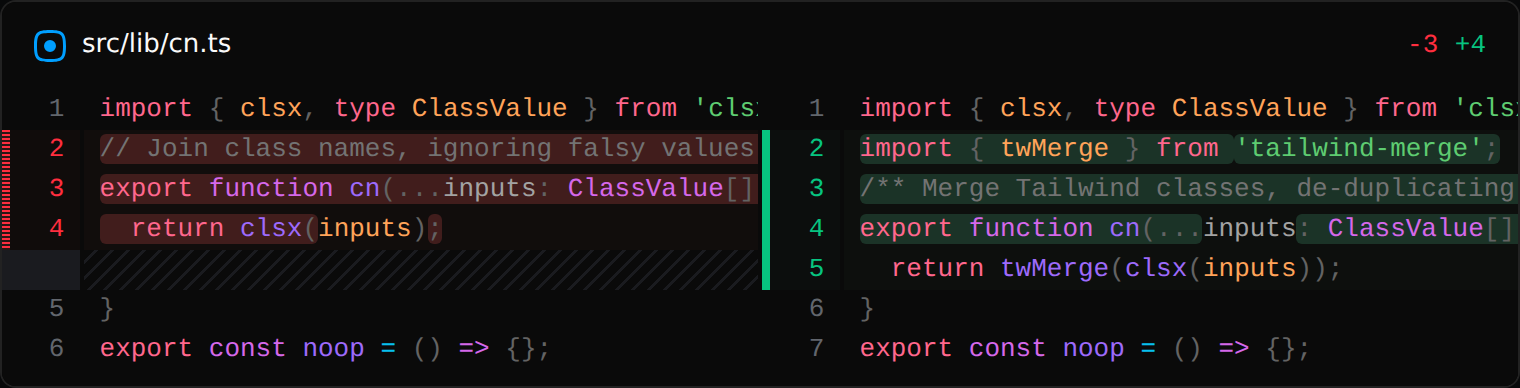
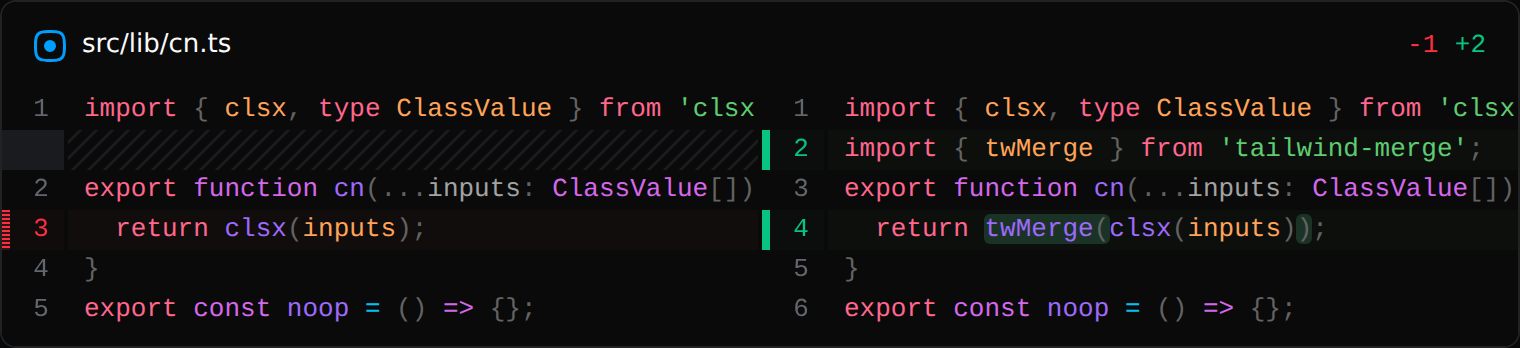
spike(git): use a realistic 1:1 edit sample in the diff preview
The previous sample was a full-block replacement; the library pairs intra-line
diffs by change index (deletion[i] <-> addition[i]), so unrelated lines got
paired and a coincidental shared token ('inputs') was treated as unchanged and
left un-boxed. Replace it with a pure-addition import + a context line + a
genuine 1:1 edit, so word-alt boxes exactly the inserted twMerge( ... ) wrapper
and unchanged code stays un-boxed. Regenerate captures; drop the stale
none/char comparison images.

diff --git a/marudesk/diff-preview/main.tsx b/marudesk/diff-preview/main.tsx
@@ -3,20 +3,21 @@ import { StrictMode, type CSSProperties } from 'react';
 import { createRoot } from 'react-dom/client';
 import { PatchDiff } from '@pierre/diffs/react';
 
-// A realistic unified diff to exercise syntax highlighting + add/remove/context.
+// A realistic unified diff: a pure addition (import), a context line, and a
+// genuine 1:1 line edit. This keeps intra-line pairing meaningful so word-alt
+// boxes exactly the inserted `twMerge( … )` wrapper and leaves unchanged code
+// (including `inputs`) un-boxed — rather than the misleading cross-line token
+// match a full-block replacement would produce.
 const SAMPLE_PATCH = `diff --git a/src/lib/cn.ts b/src/lib/cn.ts
 index 1234567..89abcde 100644
 --- a/src/lib/cn.ts
 +++ b/src/lib/cn.ts
-@@ -1,9 +1,11 @@
+@@ -1,7 +1,8 @@
  import { clsx, type ClassValue } from 'clsx';
 +import { twMerge } from 'tailwind-merge';
 
--// Join class names, ignoring falsy values.
--export function cn(...inputs: ClassValue[]): string {
+ export function cn(...inputs: ClassValue[]): string {
 -  return clsx(inputs);
-+/** Merge Tailwind classes, de-duplicating conflicting utilities. */
-+export function cn(...inputs: ClassValue[]): string {
 +  return twMerge(clsx(inputs));
  }
 
